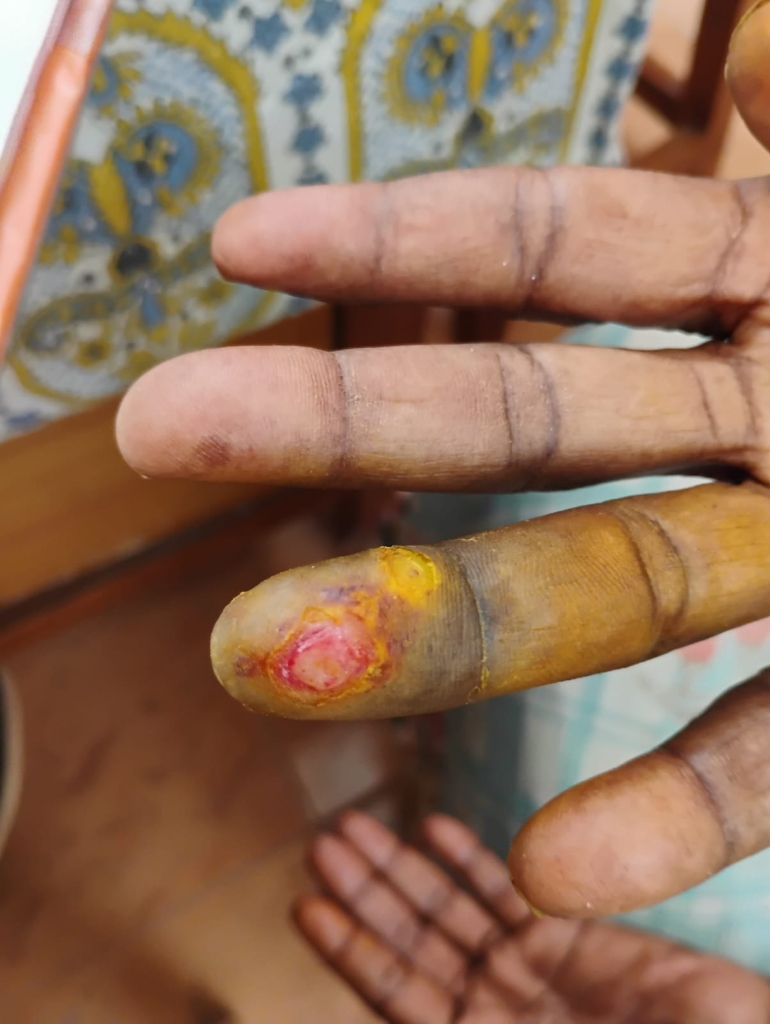
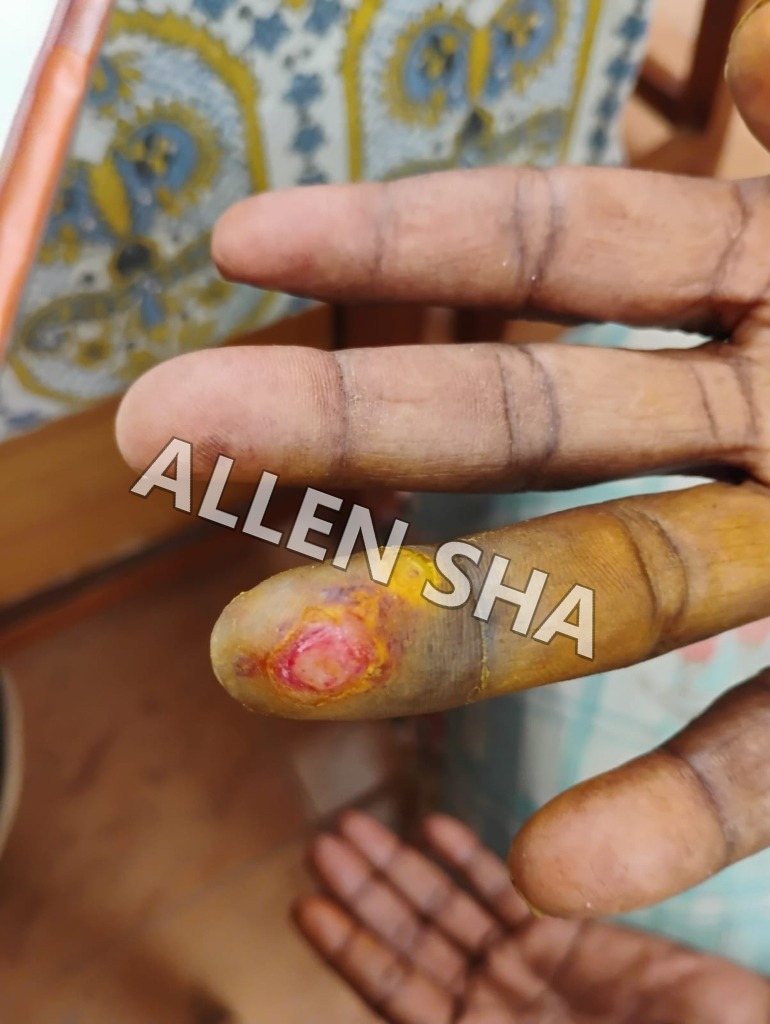
Apply single clean center watermark ALLEN SHA to all testimonial images

Changed region(s): [[0.1558, 0.4062, 0.5299, 0.5938], [0.5299, 0.5312, 0.7792, 0.6562]]

diff --git a/scripts/watermark_images.py b/scripts/watermark_images.py
@@ -1,103 +1,65 @@
 import os
-import glob
+import subprocess
 from PIL import Image, ImageDraw, ImageFont
 
-def generate_watermarked_assets():
-    src_dir = "public/images/testimonials/clean"
-    out_dir = "public/images/testimonials/watermarked"
-    os.makedirs(out_dir, exist_ok=True)
+def apply_single_watermark():
+    image_dir = "public/images/testimonials"
+    files = [
+        'case1-finger-after.jpg', 'case1-finger-before.jpg',
+        'case2-warts-after.jpg', 'case2-warts-before.jpg',
+        'case3-foot-ulcer-after.jpg', 'case3-foot-ulcer-before.jpg',
+        'case4-arm-eczema-after.jpg', 'case4-arm-eczema-before.jpg',
+        'case5-thumb-after.jpg', 'case5-thumb-before.jpg',
+        'case6-knee-after.jpg', 'case6-knee-before-1.jpg', 'case6-knee-before-2.jpg'
+    ]
     
-    files = glob.glob(os.path.join(src_dir, "*.jpg"))
     font_path = "C:/Windows/Fonts/segoeuib.ttf"
     
-    for file_path in files:
-        filename = os.path.basename(file_path)
-        out_path = os.path.join(out_dir, filename)
+    for filename in files:
+        file_path = os.path.join(image_dir, filename)
         
+        # Always fetch fresh clean original from git
+        clean_bytes = subprocess.check_output(['git', 'show', f'fc40aca:public/images/testimonials/{filename}'])
+        with open(file_path, 'wb') as f:
+            f.write(clean_bytes)
+            
         img = Image.open(file_path).convert("RGBA")
         width, height = img.size
         
-        # Create a transparent overlay
+        # Single watermark overlay
         overlay = Image.new("RGBA", (width, height), (255, 255, 255, 0))
         draw = ImageDraw.Draw(overlay)
         
-        # Font sizes based on image dimensions
-        main_font_size = int(min(width, height) * 0.13)
-        grid_font_size = int(min(width, height) * 0.055)
-        badge_font_size = int(min(width, height) * 0.035)
+        # Font size proportional to image dimensions
+        font_size = int(min(width, height) * 0.12)
+        font = ImageFont.truetype(font_path, font_size)
         
-        main_font = ImageFont.truetype(font_path, main_font_size)
-        grid_font = ImageFont.truetype(font_path, grid_font_size)
-        badge_font = ImageFont.truetype(font_path, badge_font_size)
-        
-        # 1. Diagonal repeating watermark pattern
-        tile_w, tile_h = int(width * 1.6), int(height * 1.6)
-        tile_img = Image.new("RGBA", (tile_w, tile_h), (255, 255, 255, 0))
-        tile_draw = ImageDraw.Draw(tile_img)
-        
-        step_x = int(width * 0.38)
-        step_y = int(height * 0.22)
-        
-        for y in range(0, tile_h, step_y):
-            for x in range(0, tile_w, step_x):
-                offset_x = (step_x // 2) if (y // step_y) % 2 == 1 else 0
-                pos_x = x + offset_x
-                pos_y = y
-                
-                # Shadow & Text
-                tile_draw.text((pos_x + 1, pos_y + 1), "Allen Sha", font=grid_font, fill=(0, 0, 0, 75))
-                tile_draw.text((pos_x, pos_y), "Allen Sha", font=grid_font, fill=(255, 255, 255, 120))
-        
-        # Rotate tile
-        rotated_tile = tile_img.rotate(28, resample=Image.Resampling.BICUBIC, expand=False)
-        crop_x = (tile_w - width) // 2
-        crop_y = (tile_h - height) // 2
-        cropped_tile = rotated_tile.crop((crop_x, crop_y, crop_x + width, crop_y + height))
-        overlay.alpha_composite(cropped_tile)
-        
-        # 2. Center Prominent Watermark
-        center_overlay = Image.new("RGBA", (width, height), (255, 255, 255, 0))
-        c_draw = ImageDraw.Draw(center_overlay)
-        center_text = "ALLEN SHA"
-        bbox = c_draw.textbbox((0, 0), center_text, font=main_font)
+        watermark_text = "ALLEN SHA"
+        bbox = draw.textbbox((0, 0), watermark_text, font=font)
         tw = bbox[2] - bbox[0]
         th = bbox[3] - bbox[1]
+        
         cx = (width - tw) // 2
         cy = (height - th) // 2
         
-        for dx, dy in [(-2,0), (2,0), (0,-2), (0,2), (-2,-2), (2,2), (-2,2), (2,-2), (0,3), (3,3)]:
-            c_draw.text((cx + dx, cy + dy), center_text, font=main_font, fill=(0, 0, 0, 95))
-        c_draw.text((cx, cy), center_text, font=main_font, fill=(255, 255, 255, 170))
+        # Single Center Watermark with subtle shadow & outline
+        text_img = Image.new("RGBA", (width, height), (255, 255, 255, 0))
+        t_draw = ImageDraw.Draw(text_img)
         
-        rot_center = center_overlay.rotate(-20, resample=Image.Resampling.BICUBIC, center=(width//2, height//2))
-        overlay.alpha_composite(rot_center)
+        # Dark shadow outline for visibility on bright/dark backgrounds
+        for dx, dy in [(-2,0), (2,0), (0,-2), (0,2), (-2,-2), (2,2), (-2,2), (2,-2), (1,2), (2,3)]:
+            t_draw.text((cx + dx, cy + dy), watermark_text, font=font, fill=(0, 0, 0, 85))
+        # Main semi-transparent white text
+        t_draw.text((cx, cy), watermark_text, font=font, fill=(255, 255, 255, 150))
         
-        # 3. Bottom Watermark Bar / Badge
-        b_draw = ImageDraw.Draw(overlay)
-        badge_text = "ALLEN SHA • CLINICAL CASE DOCUMENTATION"
-        b_bbox = b_draw.textbbox((0, 0), badge_text, font=badge_font)
-        bw = b_bbox[2] - b_bbox[0]
-        bh = b_bbox[3] - b_bbox[1]
-        
-        pad_x, pad_y = 16, 8
-        bar_w = bw + (pad_x * 2)
-        bar_h = bh + (pad_y * 2)
-        bar_x = (width - bar_w) // 2
-        bar_y = height - bar_h - 18
-        
-        b_draw.rounded_rectangle(
-            [bar_x, bar_y, bar_x + bar_w, bar_y + bar_h],
-            radius=8,
-            fill=(20, 50, 40, 180),
-            outline=(255, 255, 255, 130),
-            width=1
-        )
-        b_draw.text((bar_x + pad_x, bar_y + pad_y), badge_text, font=badge_font, fill=(255, 255, 255, 230))
+        # Slight angle (-20 deg)
+        rotated_text = text_img.rotate(-20, resample=Image.Resampling.BICUBIC, center=(width//2, height//2))
+        overlay.alpha_composite(rotated_text)
         
         # Composite overlay with original image
         final_img = Image.alpha_composite(img, overlay).convert("RGB")
-        final_img.save(out_path, "JPEG", quality=92, optimize=True)
-        print(f"Generated watermarked: {out_path}")
+        final_img.save(file_path, "JPEG", quality=92, optimize=True)
+        print(f"Applied single watermark to: {file_path}")
 
 if __name__ == "__main__":
-    generate_watermarked_assets()
+    apply_single_watermark()
